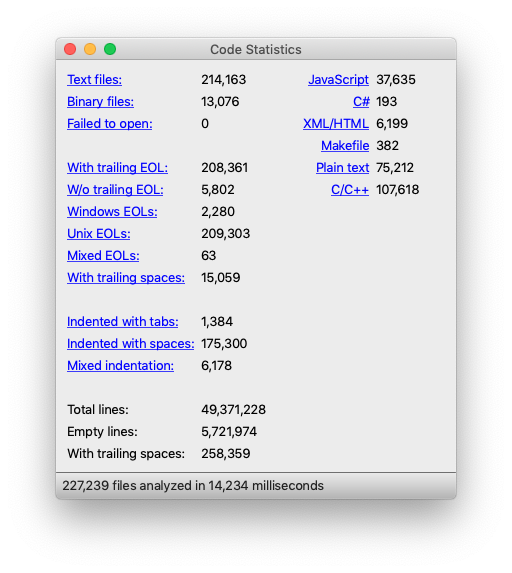
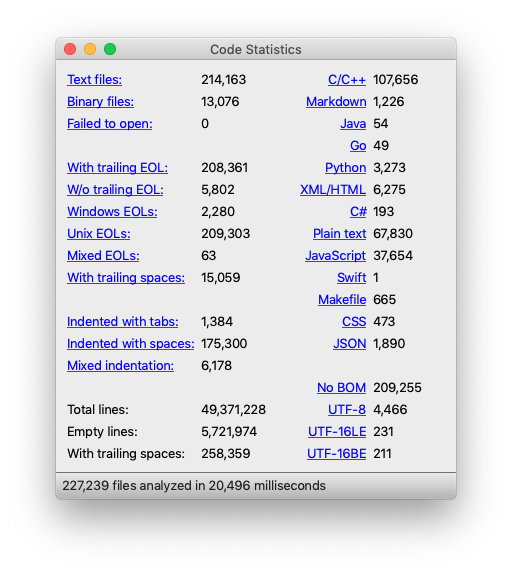
Add file distribution by encoding

Changed region(s): [[0.5938, 0.1187, 0.8125, 0.623], [0.5938, 0.6527, 0.8438, 0.801], [0.4062, 0.8307, 0.6562, 0.8604]]

diff --git a/CodeAnalyzer/MainWindow.cpp b/CodeAnalyzer/MainWindow.cpp
@@ -148,9 +148,19 @@ void MainWindow::linkActivated(const QString& link)
         }
         else
         {
-            wnd->setFileList(folderInfo->textFiles, [&language](const TextFileInfo& i) { return i.language == language; });
+            wnd->setFileList(folderInfo->textFiles, [language](const TextFileInfo& i) { return i.language == language; });
             wnd->setTitle(language->name);
         }
+    }
+    else if (link.startsWith("encoding"))
+    {
+        QString encodingNumber = link.mid(8);
+        bool ok;
+        int encodingInt = encodingNumber.toInt(&ok);
+        if (!ok || encodingInt < 0 || encodingInt >= TotalNumberOfEncodings) qFatal("Invalid encoding link");
+        auto encoding = Encoding(encodingInt);
+        wnd->setFileList(folderInfo->textFiles, [encoding](const TextFileInfo& i) { return i.encoding == encoding; });
+        wnd->setTitle(getEncodingName(encoding));
     }
     else
     {
@@ -209,6 +219,35 @@ void MainWindow::updateFolderInfo(FolderInfo info)
         auto numLabel = new QLabel{systemLocale.toString(numOfFiles)};
         connectLinkHandler(langNameLabel);
         ui->languageFormLayout->addRow(langNameLabel, numLabel);
+    }
+    auto spacer = new QSpacerItem(20, 16, QSizePolicy::Minimum, QSizePolicy::MinimumExpanding);
+    ui->languageFormLayout->addItem(spacer);
+    for (int i = 0; i < TotalNumberOfEncodings; i++)
+    {
+        int files = info->filesByEncoding[i];
+        if (files != 0)
+        {
+            auto encodingLabel = new QLabel{
+                QStringLiteral("<a href=\"encoding%2\">%1</a>")
+                    .arg(getEncodingName(Encoding(i)))
+                    .arg(i)
+            };
+            auto numLabel = new QLabel{systemLocale.toString(files)};
+            connectLinkHandler(encodingLabel);
+            ui->languageFormLayout->addRow(encodingLabel, numLabel);
+        }
+    }
+}
+
+QString MainWindow::getEncodingName(Encoding encoding)
+{
+    switch (encoding) {
+    case Encoding::NoBom: return tr("No BOM");
+    case Encoding::Utf8: return tr("UTF-8");
+    case Encoding::Utf16BE: return tr("UTF-16BE");
+    case Encoding::Utf16LE: return tr("UTF-16LE");
+    case Encoding::Utf32BE: return tr("UTF-32BE");
+    case Encoding::Utf32LE: return tr("UTF-32LE");
     }
 }
 

diff --git a/CodeAnalyzer/FolderProcessor.cpp b/CodeAnalyzer/FolderProcessor.cpp
@@ -142,6 +142,7 @@ void processFile(const Collection<const Language*>& languages, FolderInfoData* i
         info->binaryFiles.append(tfi);
         return;
     }
+    info->filesByEncoding[int(tfi.encoding)]++;
     info->textFiles.append(tfi);
     info->totalLines += quint64(tfi.totalLines);
     info->emptyLines += quint64(tfi.emptyLines);

diff --git a/CodeAnalyzer/FileInfo.h b/CodeAnalyzer/FileInfo.h
@@ -24,13 +24,15 @@ struct BinaryFileInfo : public FileInfo
 
 enum class Encoding
 {
-    NoBom,
+    NoBom = 0,
     Utf8,
     Utf16LE,
     Utf16BE,
     Utf32LE,
     Utf32BE,
 };
+
+const int TotalNumberOfEncodings = int(Encoding::Utf32BE) + 1;
 
 enum class Indentation
 {

diff --git a/CodeAnalyzer/FolderInfo.h b/CodeAnalyzer/FolderInfo.h
@@ -25,6 +25,7 @@ public:
 
     // Aggregates
     QHash<const Language*, int> filesByLanguage;
+    int filesByEncoding[TotalNumberOfEncodings]{0};
     quint64 totalLines{0};
     quint64 emptyLines{0};
     quint64 linesWithTrailSpaces{0};

diff --git a/CodeAnalyzer/MainWindow.h b/CodeAnalyzer/MainWindow.h
@@ -37,6 +37,7 @@ private:
     QElapsedTimer processingTimer;
 
     void connectLinkHandler(const QObject *);
+    QString getEncodingName(Encoding);
 };
 
 #endif // MAINWINDOW_H
